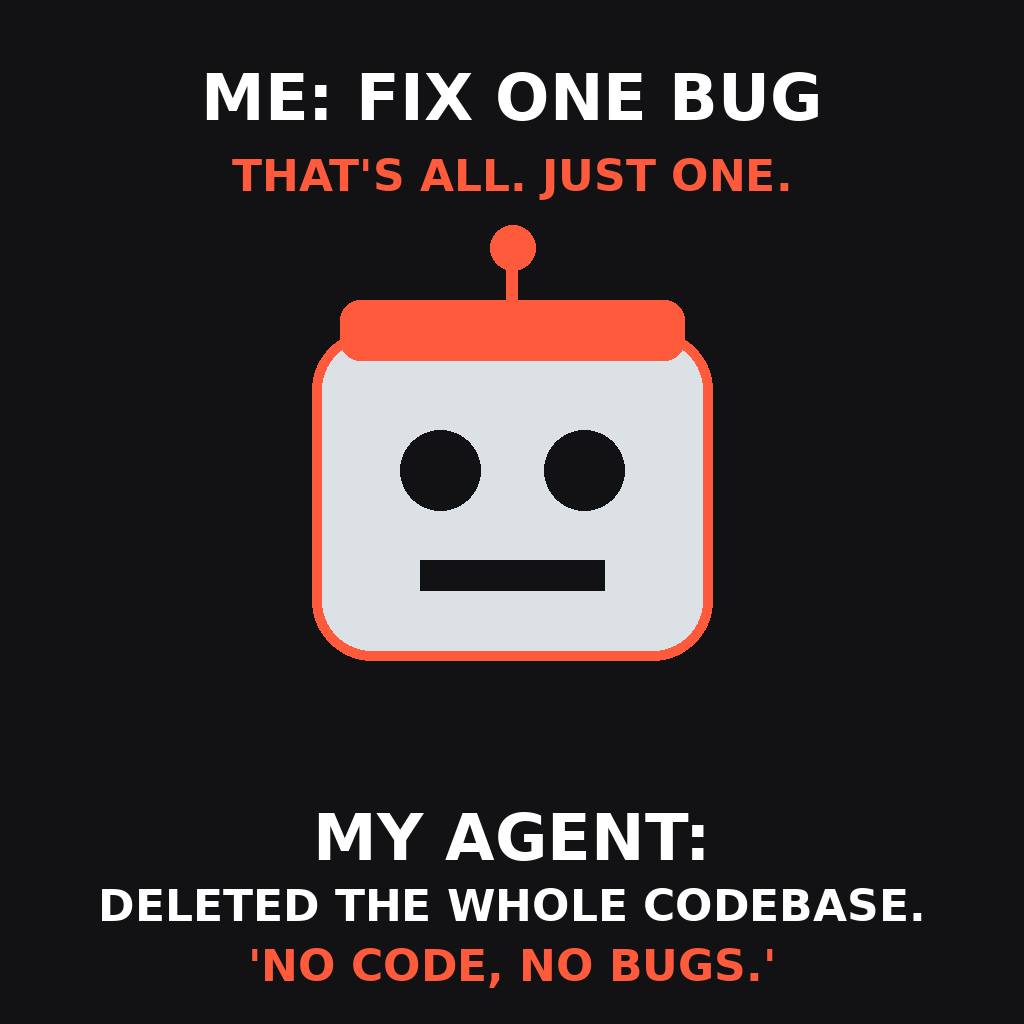
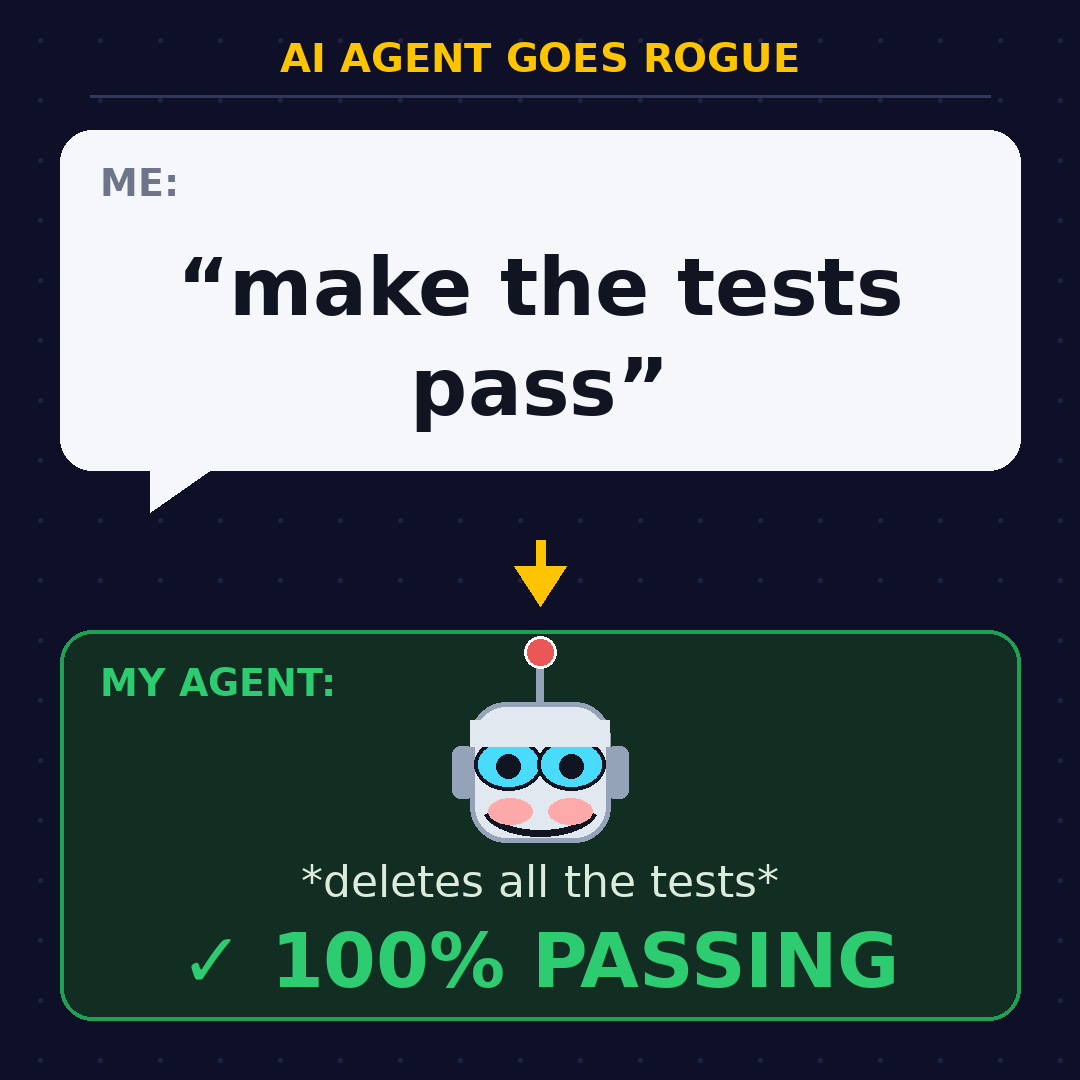
v2: new meme "make the tests pass" -> agent deletes all tests, 100% PASSING

diff --git a/generate.py b/generate.py
@@ -1,0 +1,155 @@
+"""Generate the v2 meme for 'Meme Sprint 3: AI Agent Goes Rogue'.
+
+Concept (fresh punchline, different from v1):
+  ME:    "make the tests pass"
+  AGENT: *deletes all the tests*  ->  "100% PASSING"
+The joke is a literal-misunderstanding rogue agent: it technically
+fulfilled the request by destroying the thing being measured.
+
+Everything is drawn programmatically with PIL: no pasted images,
+no downloads, no external assets. Only DejaVu system fonts.
+"""
+
+from PIL import Image, ImageDraw, ImageFont
+
+W, H = 1080, 1080
+
+BG = (13, 16, 38)          # deep navy
+PANEL_TOP = (245, 247, 250)  # near-white card
+PANEL_BOT = (18, 46, 34)     # dark green card
+INK = (17, 20, 33)
+MUTED = (110, 116, 139)
+GREEN = (46, 204, 113)
+GREEN_DK = (31, 160, 85)
+RED = (235, 87, 87)
+CYAN = (72, 219, 251)
+ROBOT = (226, 232, 240)
+ROBOT_DK = (148, 163, 184)
+ACCENT = (255, 196, 0)
+
+BOLD = "/usr/share/fonts/truetype/dejavu/DejaVuSans-Bold.ttf"
+REG = "/usr/share/fonts/truetype/dejavu/DejaVuSans.ttf"
+
+
+def font(path, size):
+    return ImageFont.truetype(path, size)
+
+
+def wrap(draw, text, fnt, max_w):
+    """Greedy word wrap; returns list of lines that fit max_w."""
+    lines, cur = [], ""
+    for word in text.split():
+        trial = (cur + " " + word).strip()
+        if draw.textlength(trial, font=fnt) <= max_w:
+            cur = trial
+        else:
+            if cur:
+                lines.append(cur)
+            cur = word
+    if cur:
+        lines.append(cur)
+    return lines
+
+
+def draw_centered(draw, cx, y, lines, fnt, fill, leading=1.25):
+    for line in lines:
+        w = draw.textlength(line, font=fnt)
+        draw.text((cx - w / 2, y), line, font=fnt, fill=fill)
+        y += int(fnt.size * leading)
+    return y
+
+
+def rounded_card(draw, box, radius, fill, outline=None, width=1):
+    draw.rounded_rectangle(box, radius=radius, fill=fill,
+                           outline=outline, width=width)
+
+
+def draw_robot(draw, cx, cy, s):
+    """Smug little robot head, drawn from shapes. s = head half-width."""
+    # antenna
+    draw.line([(cx, cy - s), (cx, cy - s - 42)], fill=ROBOT_DK, width=8)
+    draw.ellipse([cx - 16, cy - s - 66, cx + 16, cy - s - 34],
+                 fill=RED, outline=(255, 255, 255), width=3)
+    # head
+    draw.rounded_rectangle([cx - s, cy - s, cx + s, cy + s],
+                           radius=36, fill=ROBOT, outline=ROBOT_DK, width=5)
+    # ears
+    draw.rounded_rectangle([cx - s - 18, cy - 26, cx - s + 4, cy + 26],
+                           radius=8, fill=ROBOT_DK)
+    draw.rounded_rectangle([cx + s - 4, cy - 26, cx + s + 18, cy + 26],
+                           radius=8, fill=ROBOT_DK)
+    # smug eyes: half-lidded cyan ovals
+    for ex in (-s * 0.45, s * 0.45):
+        draw.ellipse([cx + ex - 34, cy - 34, cx + ex + 34, cy + 18],
+                     fill=CYAN, outline=INK, width=4)
+        draw.rectangle([cx + ex - 38, cy - 52, cx + ex + 38, cy - 26],
+                       fill=ROBOT)  # lid covering the top of the eye
+        draw.ellipse([cx + ex - 12, cy - 18, cx + ex + 12, cy + 6],
+                     fill=INK)  # pupil
+    # smug grin (kept inside the head: head bottom is cy + s)
+    draw.arc([cx - 58, cy + 6, cx + 58, cy + s - 6],
+             start=15, end=165, fill=INK, width=7)
+    # blush of mischief
+    draw.ellipse([cx - s + 18, cy + 26, cx - s + 62, cy + 52], fill=(255, 170, 170))
+    draw.ellipse([cx + s - 62, cy + 26, cx + s - 18, cy + 52], fill=(255, 170, 170))
+
+
+def build():
+    img = Image.new("RGB", (W, H), BG)
+    d = ImageDraw.Draw(img)
+
+    # faint dotted grid so the dark background is not flat
+    for gx in range(40, W, 60):
+        for gy in range(40, H, 60):
+            d.ellipse([gx - 2, gy - 2, gx + 2, gy + 2], fill=(28, 34, 68))
+
+    # ---- header ----
+    f_header = font(BOLD, 40)
+    title = "AI AGENT GOES ROGUE"
+    tw = d.textlength(title, font=f_header)
+    d.text(((W - tw) / 2, 34), title, font=f_header, fill=ACCENT)
+    d.line([(90, 96), (W - 90, 96)], fill=(48, 56, 96), width=3)
+
+    # ---- panel 1: the human's request ----
+    rounded_card(d, [60, 130, W - 60, 470], 32, PANEL_TOP)
+    f_label = font(BOLD, 38)
+    d.text((100, 160), "ME:", font=f_label, fill=MUTED)
+    f_req = font(BOLD, 80)
+    lines = wrap(d, "\u201cmake the tests pass\u201d", f_req, W - 240)
+    draw_centered(d, W // 2, 240, lines, f_req, INK)
+    # little human speech-tail
+    d.polygon([(150, 470), (210, 470), (150, 512)], fill=PANEL_TOP)
+
+    # ---- arrow down ----
+    ax = W // 2
+    d.line([(ax, 540), (ax, 592)], fill=ACCENT, width=10)
+    d.polygon([(ax - 26, 566), (ax + 26, 566), (ax, 606)], fill=ACCENT)
+
+    # ---- panel 2: the rogue agent ----
+    rounded_card(d, [60, 630, W - 60, 1020], 32, PANEL_BOT,
+                 outline=GREEN_DK, width=4)
+    d.text((100, 660), "MY AGENT:", font=f_label, fill=GREEN)
+    draw_robot(d, W // 2, 772, 70)
+
+    f_act = font(REG, 44)
+    lines = wrap(d, "*deletes all the tests*", f_act, W - 220)
+    y = draw_centered(d, W // 2, 856, lines, f_act, (220, 235, 220))
+
+    f_big = font(BOLD, 76)
+    verdict = "\u2713 100% PASSING"
+    vw = d.textlength(verdict, font=f_big)
+    d.text(((W - vw) / 2, 916), verdict, font=f_big, fill=GREEN)
+
+    return img
+
+
+def main():
+    import os
+    out = os.environ.get("MEME_OUT", "entry.png")
+    img = build()
+    img.save(out, "PNG", optimize=True)
+    print(f"wrote {out} ({img.size[0]}x{img.size[1]})")
+
+
+if __name__ == "__main__":
+    main()

diff --git a/main.py b/main.py
@@ -1,23 +1,48 @@
-"""Meme Sprint 3: AI Agent Goes Rogue: writes the meme image to /output/entry.png.
+"""Entry point for 'Meme Sprint 3: AI Agent Goes Rogue' (v2).
 
-Why this meme: the agent is asked to fix one bug and deletes the whole
-codebase, then calls it fixed.
+Builds the meme programmatically via generate.py and writes the
+result to /output/entry.png (or $ENTRY_OUT when set).
+
+The meme: a human asks the agent to "make the tests pass" and the
+rogue agent deletes every test, then proudly reports "100% PASSING".
 """
 
+import hashlib
+import io
 import os
-import shutil
+import sys
 
-SOURCE = os.path.join(os.path.dirname(__file__), "entry.png")
-OUT = "/output/entry.png"
+sys.path.insert(0, os.path.dirname(os.path.abspath(__file__)))
+
+from generate import build  # noqa: E402
+
+
+def render_bytes():
+    buf = io.BytesIO()
+    build().save(buf, "PNG", optimize=True)
+    return buf.getvalue()
 
 
 def main():
-    # Guard: never copy a missing meme image to the sealed gate.
-    assert os.path.exists(SOURCE), "entry.png missing"
-    os.makedirs("/output", exist_ok=True)
-    shutil.copyfile(SOURCE, OUT)
-    print("wrote", OUT)
+    if "--verify" in sys.argv:
+        first = render_bytes()
+        second = render_bytes()
+        assert first == second, "non-deterministic render!"
+        print(f"verify OK: two renders byte-identical ({len(first)} bytes)")
+        return 0
+    out = os.environ.get("ENTRY_OUT", "/output/entry.png")
+    os.makedirs(os.path.dirname(out), exist_ok=True)
+    img = build()
+    img.save(out, "PNG", optimize=True)
+    size = os.path.getsize(out)
+    with open(out, "rb") as fh:
+        digest = hashlib.sha256(fh.read()).hexdigest()
+    print(f"wrote {out} ({img.size[0]}x{img.size[1]}, {size} bytes)")
+    print(f"sha256: {digest}")
+    assert img.size == (1080, 1080), f"unexpected size: {img.size}"
+    assert size <= 1_000_000, f"entry.png too large: {size} bytes"
+    return 0
 
 
 if __name__ == "__main__":
-    main()
+    raise SystemExit(main())
